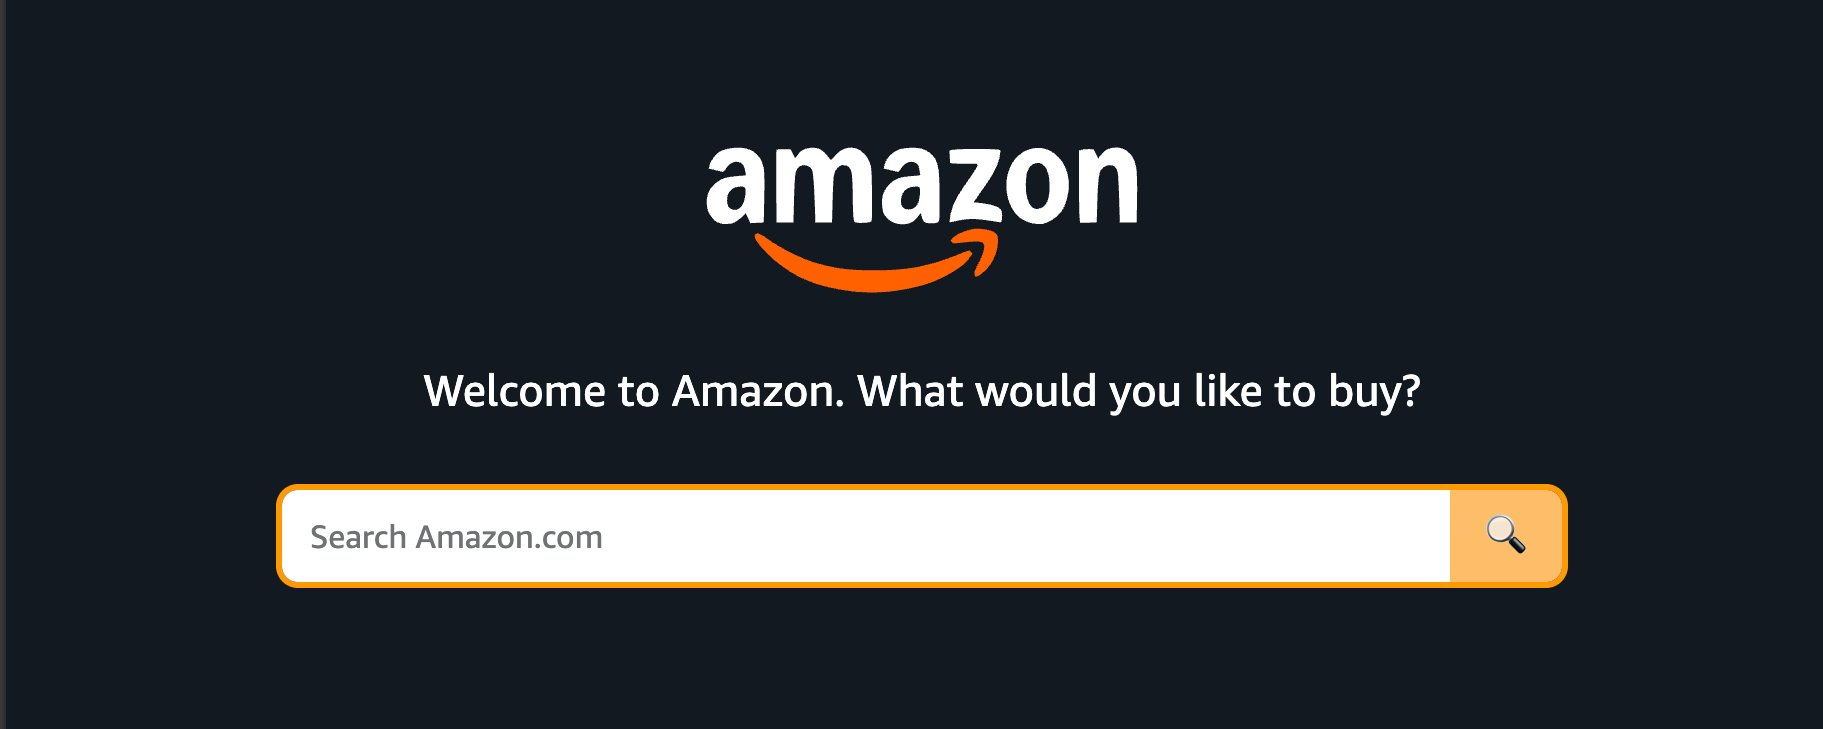
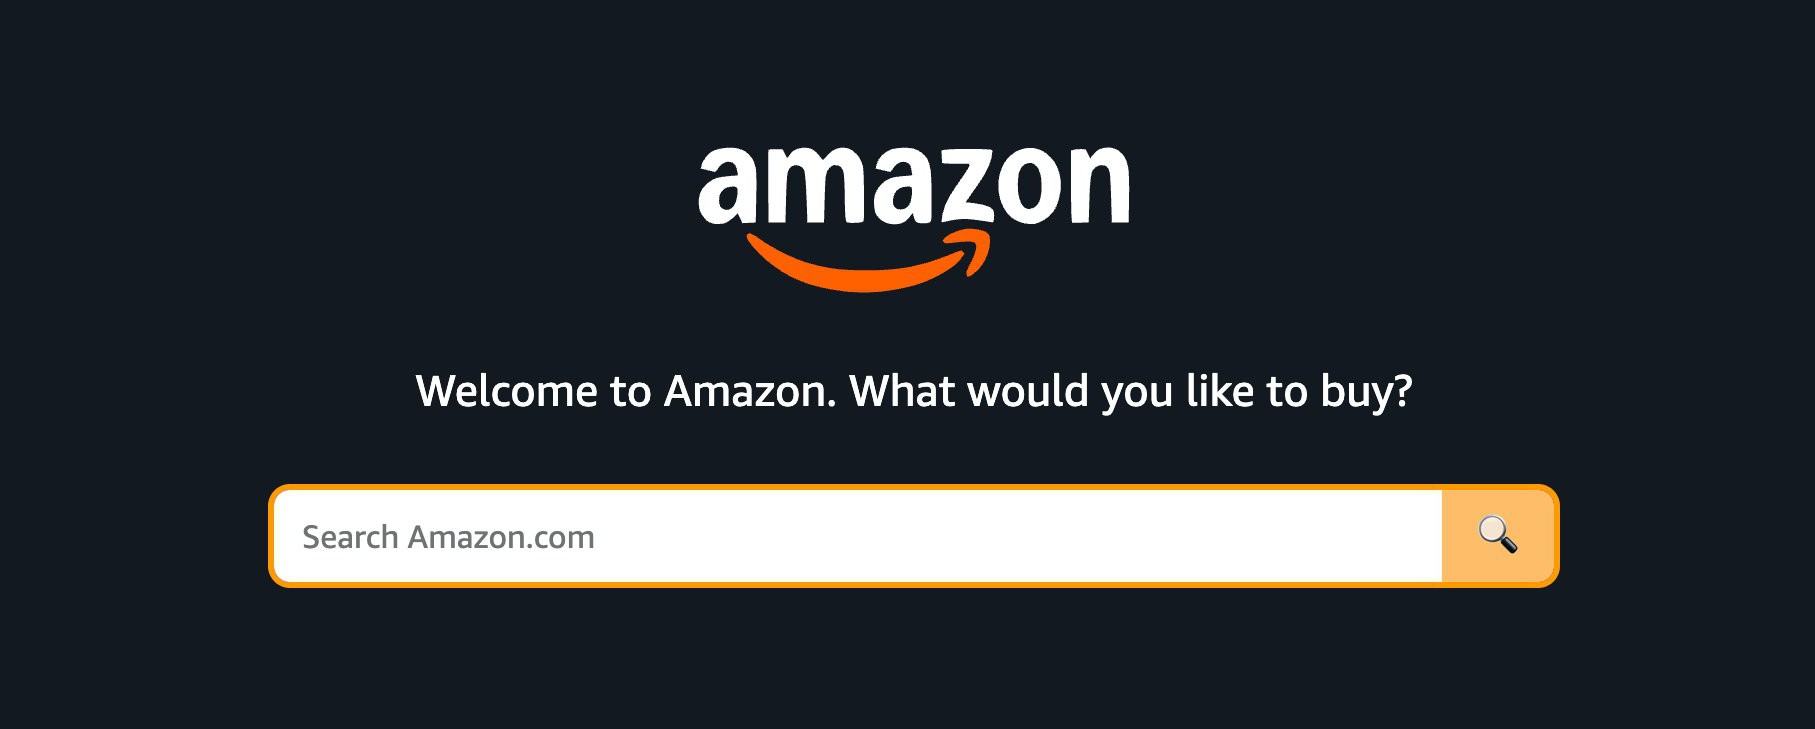
The article: the header picture first, edge to edge and from the very top (its grey left edge cropped); no top bar

diff --git a/site/src/notes.js b/site/src/notes.js
@@ -3,7 +3,7 @@
 // pictures of embedded posts are this site's own files (/notes/<slug>/<file>: site/public/, served by the
 // Worker from its assets binding).
 import { NOTES } from './notes-data.js';
-import { SITE, TOKENS, ROBOT_SVG } from './pages.js';
+import { SITE, TOKENS } from './pages.js';
 
 export { NOTES };
 
@@ -13,9 +13,6 @@ const STYLE = `${TOKENS}
 html { background: #000; }
 body { margin: 0; background: #000; color: var(--fg); font: 18px/1.6 -apple-system, system-ui, "Segoe UI", sans-serif; }
 main { max-width: 680px; margin: 0 auto; padding: 32px 16px 80px; }
-.top { display: flex; align-items: center; gap: 10px; margin: 0 0 40px; font-size: 15px; }
-.top a { color: var(--fg); text-decoration: none; font-weight: 600; display: inline-flex; align-items: center; gap: 8px; }
-.top .robot { width: 32px; height: 32px; }
 h1 { font-size: clamp(30px, 6vw, 42px); line-height: 1.15; margin: 0 0 12px; letter-spacing: -0.02em; }
 .byline { color: var(--muted); font-size: 18px; font-style: italic; margin: 0 0 4px; }
 .date { color: var(--muted); font-size: 15px; margin: 0 0 36px; }
@@ -26,7 +23,9 @@ li { margin: 0 0 6px; }
 a { color: var(--accent); }
 figure { margin: 28px 0 32px; }
 figure img, figure video { display: block; width: 100%; height: auto; border-radius: 10px; background: var(--card); }
-.cover { margin: 0 0 28px; }
+/* the header picture: the whole width, from the very top */
+figure.cover:not(.post-fig) { margin: 0; }
+.cover img { display: block; width: 100%; height: auto; border-radius: 0; background: none; }
 figcaption { color: var(--muted); font-size: 15px; line-height: 1.45; margin: 10px 2px 0; text-align: center; }
 /* embedded posts: a picture of the post, in TRIF's green frame, linking to it on X */
 .post { display: block; width: fit-content; max-width: 100%; margin: 0 auto; padding: 3.5px; border-radius: 15.5px;
@@ -93,10 +92,9 @@ export function notePage(slug) {
 <style>${STYLE}</style>
 </head>
 <body>
-<main>
-<div class="top"><a href="/">${ROBOT_SVG.replace('class="robot"', 'class="robot" width="32" height="32"').replace(/ width="128" height="128"/, '')}Tim's Robot Internet Fixer</a></div>
-<article>
 ${n.cover ? `<figure class="cover"><img src="/notes/${slug}/${n.cover.src}${n.versions?.[n.cover.src] ? `?v=${n.versions[n.cover.src]}` : ''}" width="${n.cover.w}" height="${n.cover.h}" alt="" decoding="async" fetchpriority="high"></figure>` : ''}
+<main>
+<article>
 <h1>${esc(n.title)}</h1>
 <p class="byline">Tim Blais</p>
 ${date ? `<p class="date"><time datetime="${esc(n.date)}">${date}</time></p>` : ''}

diff --git a/site/src/notes-data.js b/site/src/notes-data.js
@@ -8,12 +8,12 @@ export const NOTES = {
   "date": "2026-11-09",
   "image": {
    "src": "HWjU1c4WEAAUvts.jpg",
-   "w": 1823,
+   "w": 1815,
    "h": 729
   },
   "cover": {
    "src": "HWjU1c4WEAAUvts.jpg",
-   "w": 1823,
+   "w": 1815,
    "h": 729
   },
   "files": [
@@ -50,7 +50,7 @@ export const NOTES = {
    "HWe1zlfWAAAKlKg.jpg"
   ],
   "versions": {
-   "HWjU1c4WEAAUvts.jpg": "6a4c9c75",
+   "HWjU1c4WEAAUvts.jpg": "234025bd",
    "HWt_FOYXsAAN9gf.jpg": "5acf6289",
    "HWdxpOBXYAALVF6.jpg": "aaa44fe0",
    "HWdxzHWWMAAyfL6.jpg": "78de3be1",
